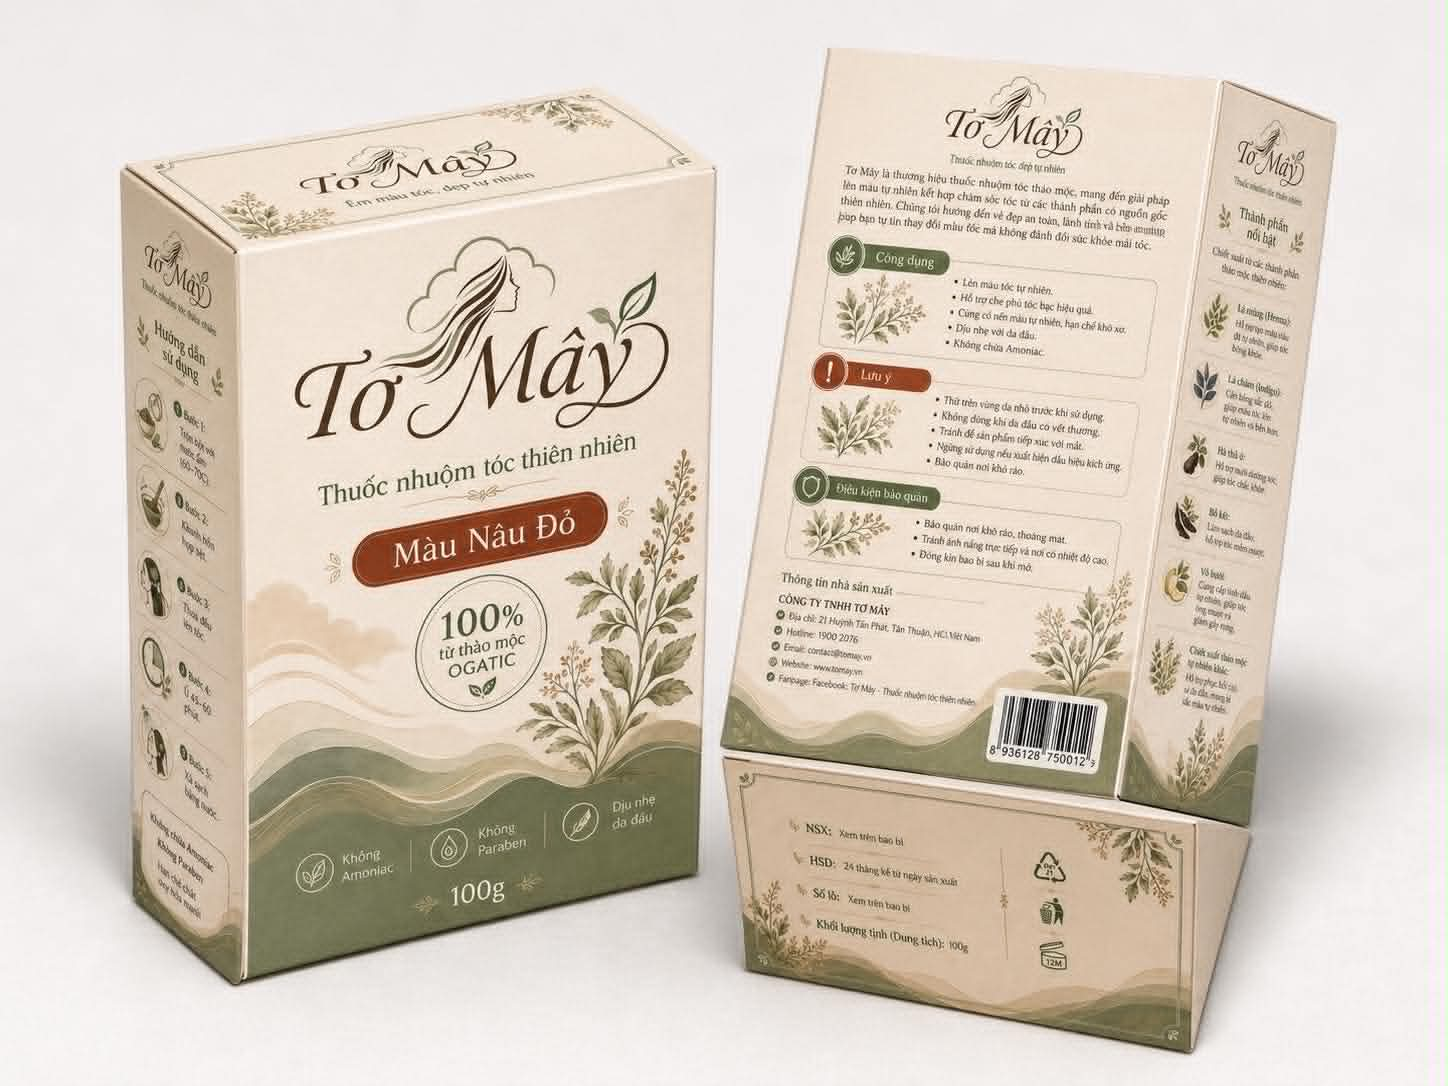
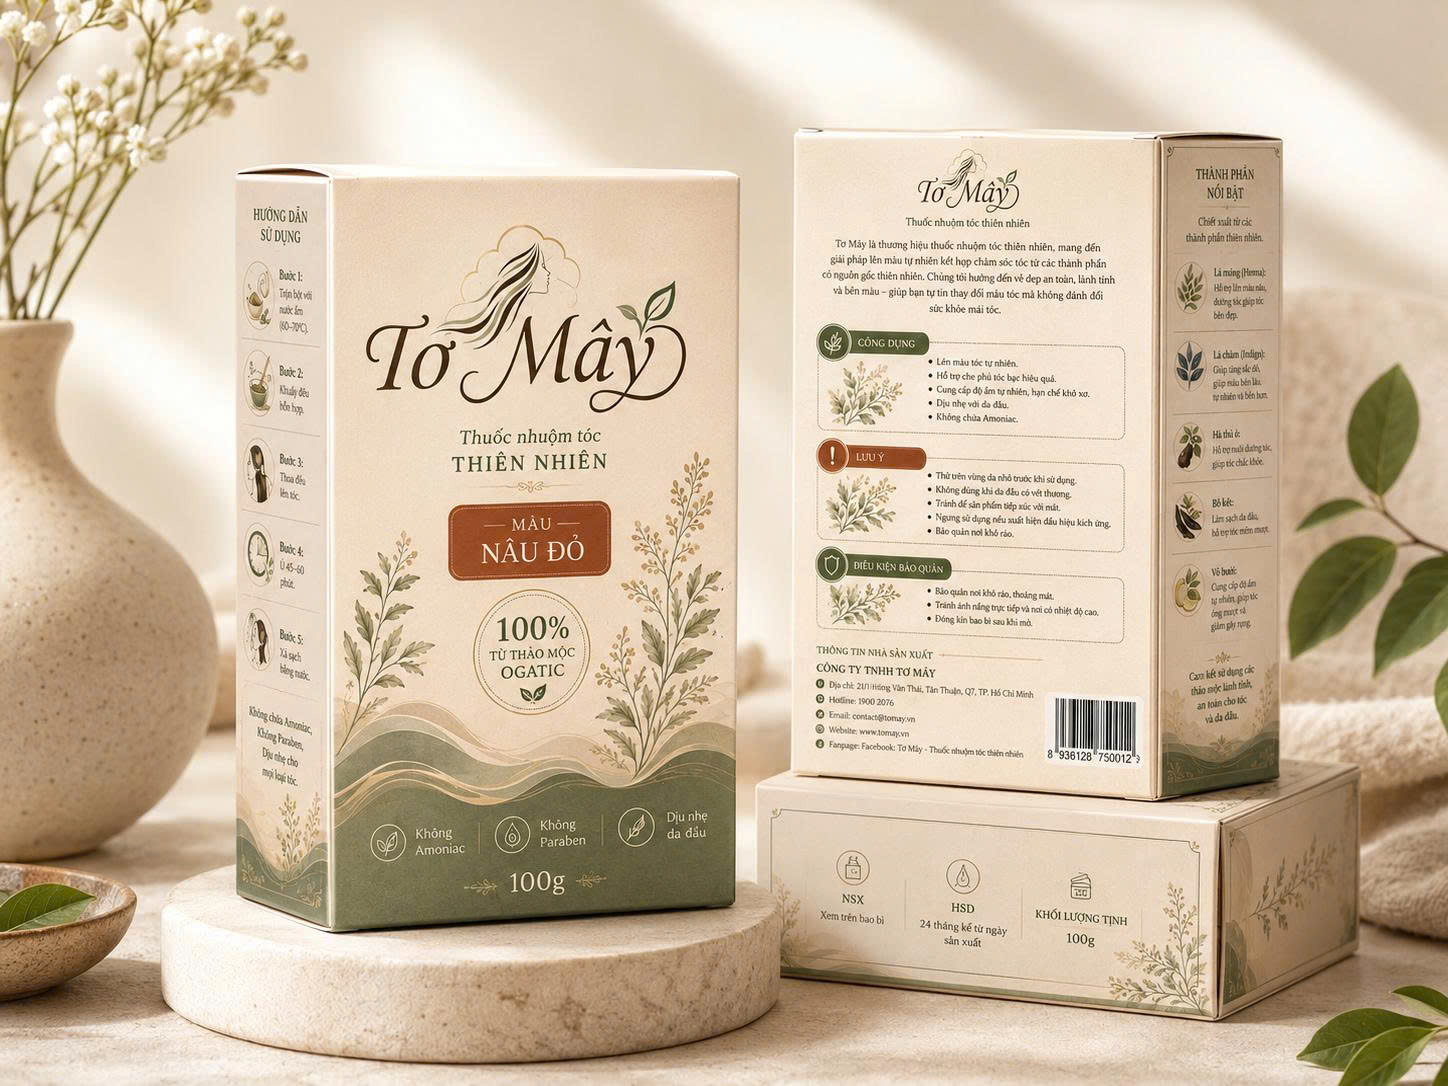
fix sanpham img

diff --git a/index.html b/index.html
@@ -160,7 +160,7 @@
                 <div class="grid grid-cols-1 lg:grid-cols-3 gap-gutter">
                     
                     <div class="relative overflow-hidden border lg:col-span-2 rounded-xl group border-outline-variant min-h-[400px]">
-                        <img class="object-cover w-full h-full transition-transform duration-700 group-hover:scale-105" alt="Sản phẩm nhuộm tóc Tơ Mây" src="./assets/sanpham1.png"/>
+                        <img class="object-cover w-full h-full transition-transform duration-700 group-hover:scale-105" alt="Sản phẩm nhuộm tóc Tơ Mây" src="./assets/sanpham.jpg"/>
                         <div class="absolute inset-0 flex flex-col justify-end p-8 md:p-12 bg-gradient-to-t from-black/80 via-black/20 to-transparent">
                             <h3 class="mb-2 italic text-white font-headline-lg text-headline-lg">Không Amoniac. Không Kích Ứng.</h3>
                             <p class="max-w-lg font-body-md text-body-md text-white/90">
